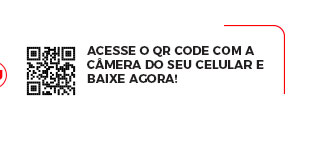
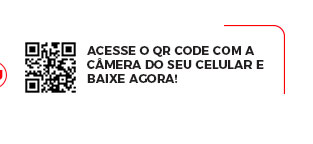
Alteri o Qr code

Changed region(s): [[0.0575, 0.2778, 0.2588, 0.6667]]

diff --git a/index.html b/index.html
@@ -38,7 +38,7 @@
           <p style="border-bottom: #909090 1px solid; padding-bottom: 12px;">Ela irá nos auxiliar com a divulgação de
             assuntos pertinentes a empresa, tais como: visão, missão, valores,
             modelos de documentos, treinamento de fábricas e entre outras informações.
-            <br><br> Que você, colaborador aproveite o Portal da melhor maneira e sinta-se à vontade para enviar suas
+            <br><br> Aproveite o Portal da melhor maneira e sinta-se à vontade para enviar suas
             sugestões, para assim prepararmos os melhores conteúdos.
           </p>
         </td>
@@ -57,7 +57,7 @@
           style="-webkit-text-size-adjust: 100%; background-color: #ffffff -ms-text-size-adjust:100%; mso-table-lspace: 0pt; mso-table-rspace: 0pt; font-size: 16px; line-height: 150%; font-family: Helvetica, Arial, sans-serif; color: #000000; padding: 9px 18px; word-break: break-word !important;"
           class="padding"><strong>Menu "A Cobra" </strong><br> Nesse menu você encontra todas as informações
           institucionais da Cobra, como: História, Missão, Visão, Valores, Responsabilidade Social, Filiais, Cobra
-          Automotiva e Documentos</td>
+          Automotiva e Documentos.</td>
       </tr>
 
       <!-- Aqui termina a primeira noticia-->
@@ -95,10 +95,10 @@
       <tr>
         <td colspan="7"><a
             href="https://cobra.renforce.app/login/"
-            target="_blank"><img src="images/RODA-PÉ_01.jpg" width="337" height="144" alt=""
+            target="_blank"><img src="https://cobra-news.netlify.app/images/RODA-P%C3%89_01.jpg" width="337" height="144" alt=""
               style="display: block;"></a>
         </td>
-        <td colspan="5"><img src="images/RODA-PÉ_02.jpg" width="313" height="144" alt=""
+        <td colspan="5"><img src="https://cobra-news.netlify.app/images/RODA-P%C3%89_02.jpg" width="313" height="144" alt=""
             style="display: block;"></a>
         </td>
       </tr>
